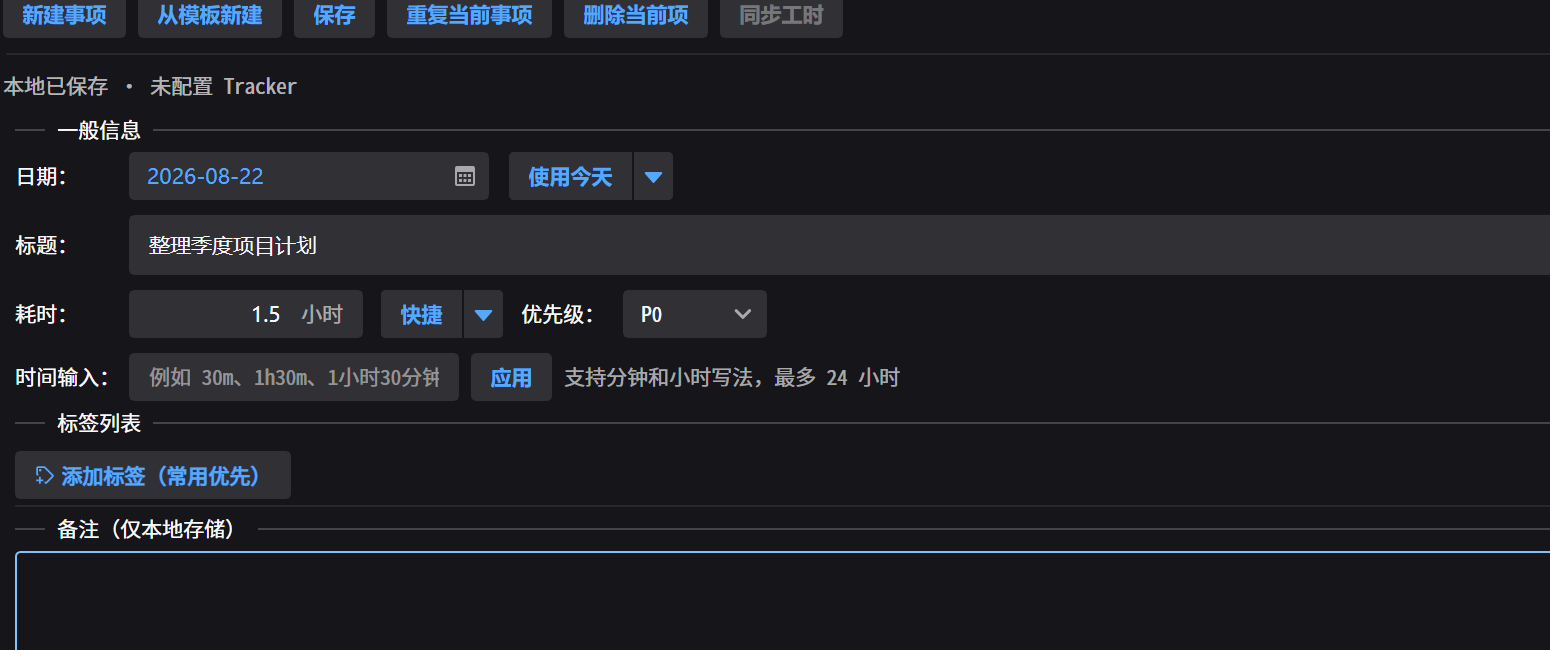
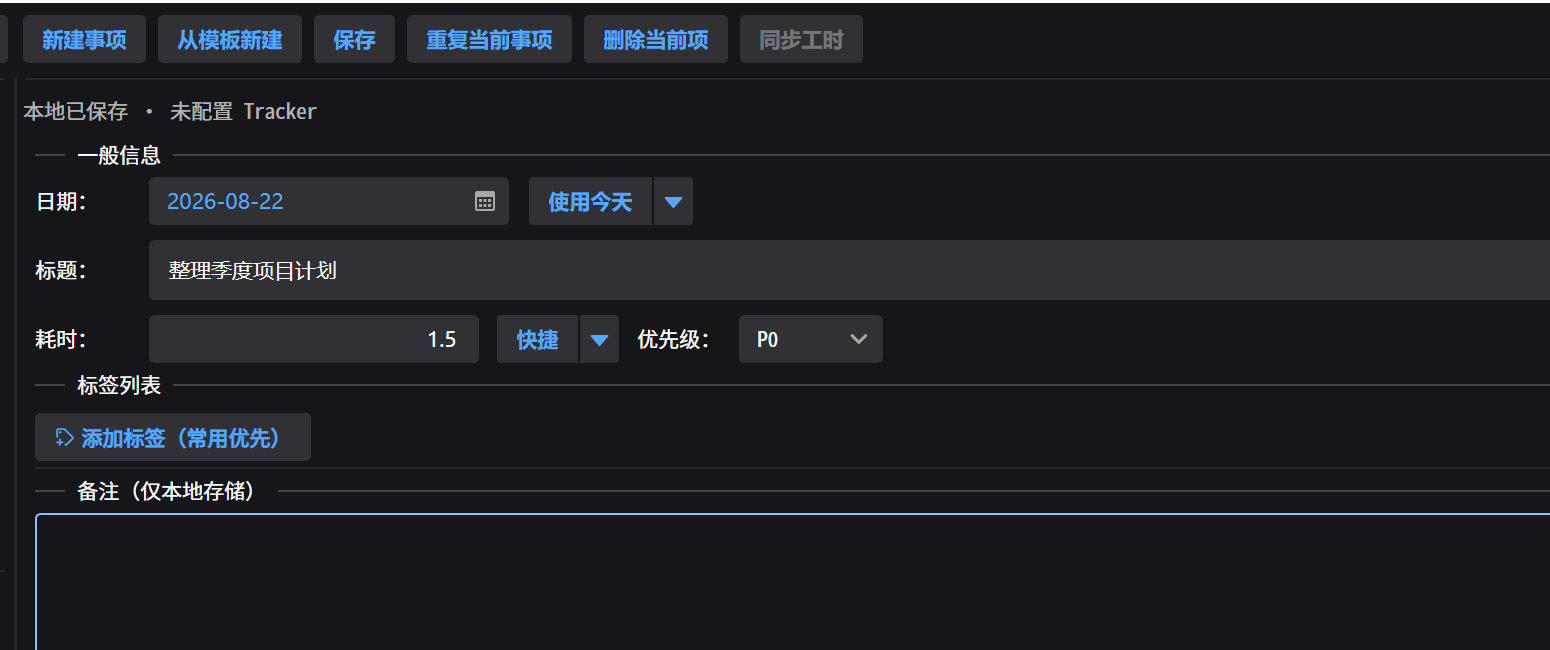
feat: 增加八小时快捷工时并更新手册
在统一耗时输入的快捷菜单中增加 8 小时选项，补充命令映射和输入同步测试。

同步更新用户手册截图、操作说明、UI 功能清单与体验设计记录。验证 Diary.AppTests 179 项全部通过，并成功生成 HTML 和 PDF 手册。

Changed region(s): [[0.0, 0.0, 1.0, 0.8308], [0.0, 0.8308, 0.031, 0.8615]]

diff --git a/Diary.AppTests/WorkEditorViewModelTests.cs b/Diary.AppTests/WorkEditorViewModelTests.cs
@@ -129,10 +129,14 @@ public sealed class WorkEditorViewModelTests
         Assert.AreEqual(0.5, viewModel.Time, 0.0001);
         Assert.AreEqual("0.5", viewModel.TimeInput);
 
+        viewModel.QuickTimeCommand.Execute("8h");
+        Assert.AreEqual(8.0, viewModel.Time, 0.0001);
+        Assert.AreEqual("8", viewModel.TimeInput);
+
         viewModel.TimeInput = "尚未应用";
         viewModel.ResetTimeInputCommand.Execute(null);
 
-        Assert.AreEqual("0.5", viewModel.TimeInput);
+        Assert.AreEqual("8", viewModel.TimeInput);
     }
 
     [TestMethod]

diff --git a/Diary.App/ViewModels/WorkEditorViewModel.cs b/Diary.App/ViewModels/WorkEditorViewModel.cs
@@ -595,6 +595,7 @@ public partial class WorkEditorViewModel : ViewModelBase
             "1h" => 1.0,
             "2h" => 2.0,
             "4h" => 4.0,
+            "8h" => 8.0,
             "clear" => 0.0,
             _ => Time,
         };

diff --git a/Docs/UserExperienceOptimization.md b/Docs/UserExperienceOptimization.md
@@ -124,7 +124,7 @@ Tracker 诊断页中的“删除数据”也应改成更准确的文案，例如
 
 现有模板和重复操作可以继续保留，但需要在主界面上更容易发现，不能让用户必须依赖右键菜单或记忆快捷键。
 
-已完成基础版本：日记页提供“复制昨天”“复制最近”和“复制整天”，整天复制支持选择源日期，执行前显示来源、条数/耗时和目标日期并要求确认；复制只带入本地字段、标签和附加字段，不复用远程 Tracker 绑定；即使源事项已有 Tracker 设置，也只复制本地内容，不会因 Tracker 选项克隆状态导致整单回滚。工时编辑提供 15/30 分钟、1/2/4 小时和清零快捷项，并支持 `30m`、`1h30m`、`1小时30分钟` 等自然时间表达式；新建事项的标签列表会优先展示当天已有记录中最近使用的标签。最近使用的主标签已持久化到应用配置（`ViewConfig.RecentPrimaryTagIds`，用于新建工作项排序）。
+已完成基础版本：日记页提供“复制昨天”“复制最近”和“复制整天”，整天复制支持选择源日期，执行前显示来源、条数/耗时和目标日期并要求确认；复制只带入本地字段、标签和附加字段，不复用远程 Tracker 绑定；即使源事项已有 Tracker 设置，也只复制本地内容，不会因 Tracker 选项克隆状态导致整单回滚。工时编辑提供 15/30 分钟、1/2/4/8 小时和清零快捷项，并支持 `30m`、`1h30m`、`1小时30分钟` 等自然时间表达式；新建事项的标签列表会优先展示当天已有记录中最近使用的标签。最近使用的主标签已持久化到应用配置（`ViewConfig.RecentPrimaryTagIds`，用于新建工作项排序）。
 当前编辑器布局已将一般信息改为对齐的日期、标题、耗时和优先级区域；耗时输入保留明确的“小时”单位并扩大可视宽度，快捷时长作为相邻操作入口。日记页左侧事项列表采用“编号/标题/优先级、耗时/标签、保存与同步状态”三层卡片结构，第一层使用轻量背景突出核心识别信息，长标题和状态文本使用省略显示，便于快速扫读；该视图内仅标签色块设置 `ToolTip.Placement="Top"` 从关联控件上方显示以减少对下方列表内容的遮挡；列表卡片标题 ToolTip 为 `Placement="Pointer"`。
 
 ### 6. 优化工时输入和时间语义

diff --git a/Docs/CompletedWork.md b/Docs/CompletedWork.md
@@ -362,7 +362,7 @@
 - [x] Tracker 配置对话框按配置提供者分 Tab 展示，Jira、RedMine 等提供者各自拥有独立配置页；提供者内部继续管理自身多实例配置。
 - [x] 富数据日期切换改为按日期批量预取附加字段，并让 Redmine/Jira 编辑器共享开放 Issue/活动选项；只有历史失效绑定创建局部占位列表。本机 14 条事项、250 个 Issue、Tracker 绑定、2 个标签和 9 类附加字段场景下，热身后的 12 次连续切换中位数约由 149 ms 降至 80 ms，P95 约由 218 ms 降至 135 ms。
 - [x] 日记页提供“复制昨天”“复制最近”和“复制整天”：整天复制支持选择源日期，执行前显示来源、条数/耗时和目标日期并要求确认；复制只带入本地字段和标签，不复用远程 Tracker 绑定。
-- [x] 工时编辑提供 15/30 分钟、1/2/4 小时和清零快捷项，并支持 `30m`、`1h30m`、`1小时30分钟` 等自然时间表达式；新建事项标签列表优先展示当天已有记录中最近使用的标签，最近项目已持久化到应用配置。
+- [x] 工时编辑提供 15/30 分钟、1/2/4/8 小时和清零快捷项，并支持 `30m`、`1h30m`、`1小时30分钟` 等自然时间表达式；新建事项标签列表优先展示当天已有记录中最近使用的标签，最近项目已持久化到应用配置。
 - [x] 查询页结果摘要显示记录数和耗时合计，并提供按日期、主标签的紧凑汇总；结果可复制汇总文本，也可导出 CSV 或 Markdown，导出字段包含主标签。
 - [x] 调查协议在保留 DiaryToolpp 兼容的 v1/9721 日期查询基础上增加 v2/9722 自定义统计查询（关键词、标签、标签模式和优先级），扩展查询只发送到新版节点；已支持 v2 能力发现、标签/日期/优先级分组和最多 500 条结果明细展示。
 

diff --git a/Docs/UiFeatureInventory.md b/Docs/UiFeatureInventory.md
@@ -105,7 +105,7 @@
 - 日期：日历选择，以及“使用今天”“使用昨天”“使用明天”。
 - 标题：单行文本编辑。
 - 耗时：使用单一输入框编辑，支持 0 至 24 的数字小时以及 `30m`、`1h30m`、中文时间表达式；按 `Enter` 或移开焦点应用，按 `Esc` 恢复，格式说明通过 Tooltip 提示。
-- 快捷耗时：15 分钟、30 分钟、1 小时、2 小时、4 小时、清零。
+- 快捷耗时：15 分钟、30 分钟、1 小时、2 小时、4 小时、8 小时、清零。
 - 优先级：枚举选择。
 - 本地备注：多行文本，仅保存在本地工作项。
 
